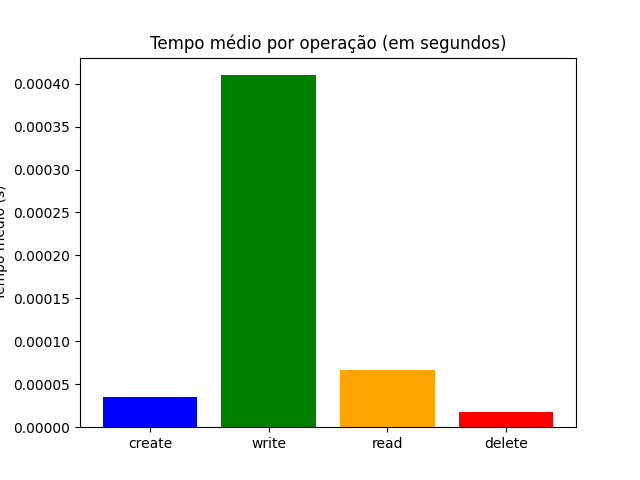
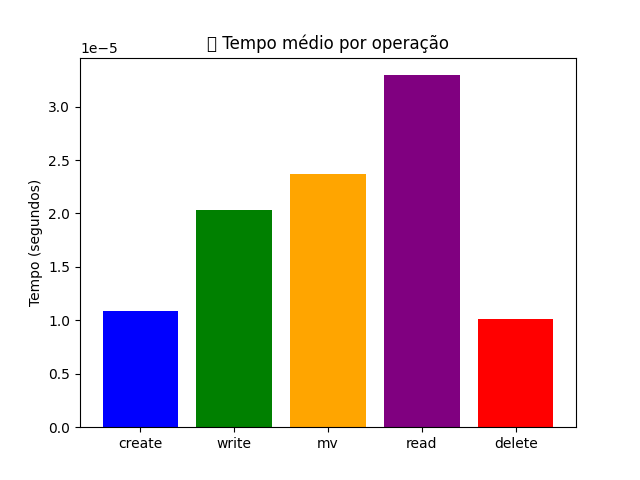
adicionando a metrica de mover um arquivo

diff --git a/teste.py b/teste.py
@@ -1,0 +1,145 @@
+import time
+import random
+import matplotlib.pyplot as plt
+
+BLOCK_SIZE = 512
+
+class Block:
+    def _init_(self, data=''):
+        self.data = data
+        self.next = None
+
+class File:
+    def _init_(self, name):
+        self.name = name
+        self.size = 0
+        self.first_block = None
+
+class Directory:
+    def _init_(self, name):
+        self.name = name
+        self.children = {}
+
+root = Directory('/')
+current_dir = root
+
+def find_directory(path):
+    parts = path.strip('/').split('/')
+    dir_ptr = root
+    for part in parts:
+        if part and part in dir_ptr.children and isinstance(dir_ptr.children[part], Directory):
+            dir_ptr = dir_ptr.children[part]
+        else:
+            return None
+    return dir_ptr
+
+def mkdir(name):
+    if name not in current_dir.children:
+        current_dir.children[name] = Directory(name)
+
+def touch(name):
+    if name not in current_dir.children:
+        current_dir.children[name] = File(name)
+
+def ls():
+    print(" ".join(current_dir.children.keys()))
+
+def cd(name):
+    global current_dir
+    if name == '..':
+        current_dir = root
+    elif name in current_dir.children and isinstance(current_dir.children[name], Directory):
+        current_dir = current_dir.children[name]
+
+def write(filename, content):
+    if filename not in current_dir.children:
+        return
+    f = current_dir.children[filename]
+    f.size = len(content)
+    blocks = []
+    for i in range(0, len(content), BLOCK_SIZE):
+        block = Block(content[i:i+BLOCK_SIZE])
+        blocks.append(block)
+    for i in range(len(blocks)-1):
+        blocks[i].next = blocks[i+1]
+    f.first_block = blocks[0] if blocks else None
+
+def cat(filename):
+    if filename not in current_dir.children:
+        return
+    f = current_dir.children[filename]
+    ptr = f.first_block
+    content = ''
+    while ptr:
+        content += ptr.data
+        ptr = ptr.next
+    return content
+
+def mv(filename, target_path):
+    if filename not in current_dir.children:
+        return
+    target_dir = find_directory(target_path)
+    if not target_dir:
+        return
+    target_dir.children[filename] = current_dir.children.pop(filename)
+
+def rm(name):
+    if name in current_dir.children:
+        del current_dir.children[name]
+
+def stat(name):
+    if name not in current_dir.children:
+        return
+    item = current_dir.children[name]
+    if isinstance(item, File):
+        blocks = []
+        ptr = item.first_block
+        while ptr:
+            blocks.append(ptr)
+            ptr = ptr.next
+        print(f"Arquivo: {name}")
+        print(f"Tamanho: {item.size} bytes")
+        print(f"Blocos usados: {len(blocks)}")
+        print(f"Encadeamento: {' -> '.join(str(id(b))[-4:] for b in blocks)}")
+    elif isinstance(item, Directory):
+        print(f"Diretório: {name} (contém {len(item.children)} itens)")
+
+# Prompt interativo
+
+def prompt():
+    global current_dir
+    while True:
+        cmd = input("$ ").strip()
+        if cmd == "exit":
+            break
+        elif cmd.startswith("mkdir "):
+            mkdir(cmd[6:])
+        elif cmd.startswith("touch "):
+            touch(cmd[6:])
+        elif cmd == "ls":
+            ls()
+        elif cmd.startswith("cd "):
+            cd(cmd[3:])
+        elif cmd.startswith("write "):
+            parts = cmd[6:].split(" ", 1)
+            if len(parts) == 2:
+                write(parts[0], parts[1].strip('"'))
+        elif cmd.startswith("cat "):
+            content = cat(cmd[4:])
+            if content:
+                print(content)
+        elif cmd.startswith("mv "):
+            parts = cmd[3:].split(" ")
+            if len(parts) == 2:
+                mv(parts[0], parts[1])
+        elif cmd.startswith("rm "):
+            rm(cmd[3:])
+        elif cmd.startswith("stat "):
+            stat(cmd[5:])
+        elif cmd == "help":
+            print("mkdir <nome>, touch <nome>, ls, cd <nome>/.., write <arquivo> \"conteudo\", cat <arquivo>, mv <arquivo> <dir>, rm <nome>, stat <nome>, exit")
+        else:
+            print("Comando inválido. Digite 'help' para ajuda.")
+
+if _name_ == "_main_":
+    prompt()

diff --git a/filesystem/benchmark.py b/filesystem/benchmark.py
@@ -1,7 +1,7 @@
-# filesystem/benchmark.py
 import time
 import matplotlib.pyplot as plt
-from filesystem.inode import Inode
+from filesystem.commands import file_ops
+from filesystem.commands import dir_ops
 
 def medir_tempo(func, *args):
     inicio = time.perf_counter()
@@ -13,37 +13,45 @@ def benchmark(shell):
     resultados = {
         'create': [],
         'write': [],
+        'mv': [],
         'read': [],
         'delete': []
     }
 
-    from filesystem.commands import file_ops
+    # Criar diretório de destino para mv
+    if "destino" not in shell.cwd.children:
+        dir_ops.mkdir(shell, "destino")
 
     for i in range(10):
-        filename = f"teste_{i}.txt"
+        nome = f"arquivo_{i}.txt"
+        destino = f"destino/{nome}"
 
-        # Medir criação
-        tempo_create = medir_tempo(file_ops.touch, shell, filename)
-        resultados['create'].append(tempo_create)
+        # 1. Criação
+        tempo = medir_tempo(file_ops.touch, shell, nome)
+        resultados['create'].append(tempo)
 
-        # Medir escrita
-        tempo_write = medir_tempo(file_ops.write, shell, f"{filename} \"{'x'*1000}\"")
-        resultados['write'].append(tempo_write)
+        # 2. Escrita
+        tempo = medir_tempo(file_ops.write, shell, f'{nome} "dados-{i*1000}"')
+        resultados['write'].append(tempo)
 
-        # Medir leitura
-        tempo_read = medir_tempo(file_ops.cat, shell, filename)
-        resultados['read'].append(tempo_read)
+        # 3. Move para /destino
+        tempo = medir_tempo(file_ops.mv, shell, f"{nome} {destino}")
+        resultados['mv'].append(tempo)
 
-        # Medir deleção
-        tempo_rm = medir_tempo(file_ops.rm, shell, filename)
-        resultados['delete'].append(tempo_rm)
+        # 4. Leitura (no destino)
+        tempo = medir_tempo(file_ops.cat, shell, f"{destino}")
+        resultados['read'].append(tempo)
 
-    # Mostrar gráfico
+        # 5. Deleção (no destino)
+        tempo = medir_tempo(file_ops.rm, shell, nome if nome in shell.cwd.children else destino.split("/")[-1])
+        resultados['delete'].append(tempo)
+
+    # Gráfico: tempo médio por operação
     labels = list(resultados.keys())
-    valores = [sum(resultados[chave])/len(resultados[chave]) for chave in labels]
+    tempos_medios = [sum(resultados[k]) / len(resultados[k]) for k in labels]
 
-    plt.bar(labels, valores, color=["blue", "green", "orange", "red"])
-    plt.title("Tempo médio por operação (em segundos)")
-    plt.ylabel("Tempo médio (s)")
+    plt.bar(labels, tempos_medios, color=['blue', 'green', 'orange', 'purple', 'red'])
+    plt.title("⏱ Tempo médio por operação")
+    plt.ylabel("Tempo (segundos)")
     plt.savefig("benchmark.png")
-    print("📈 Benchmark final salvo como 'benchmark.png'")
+    print("📈 Benchmark completo salvo como 'benchmark.png'")
